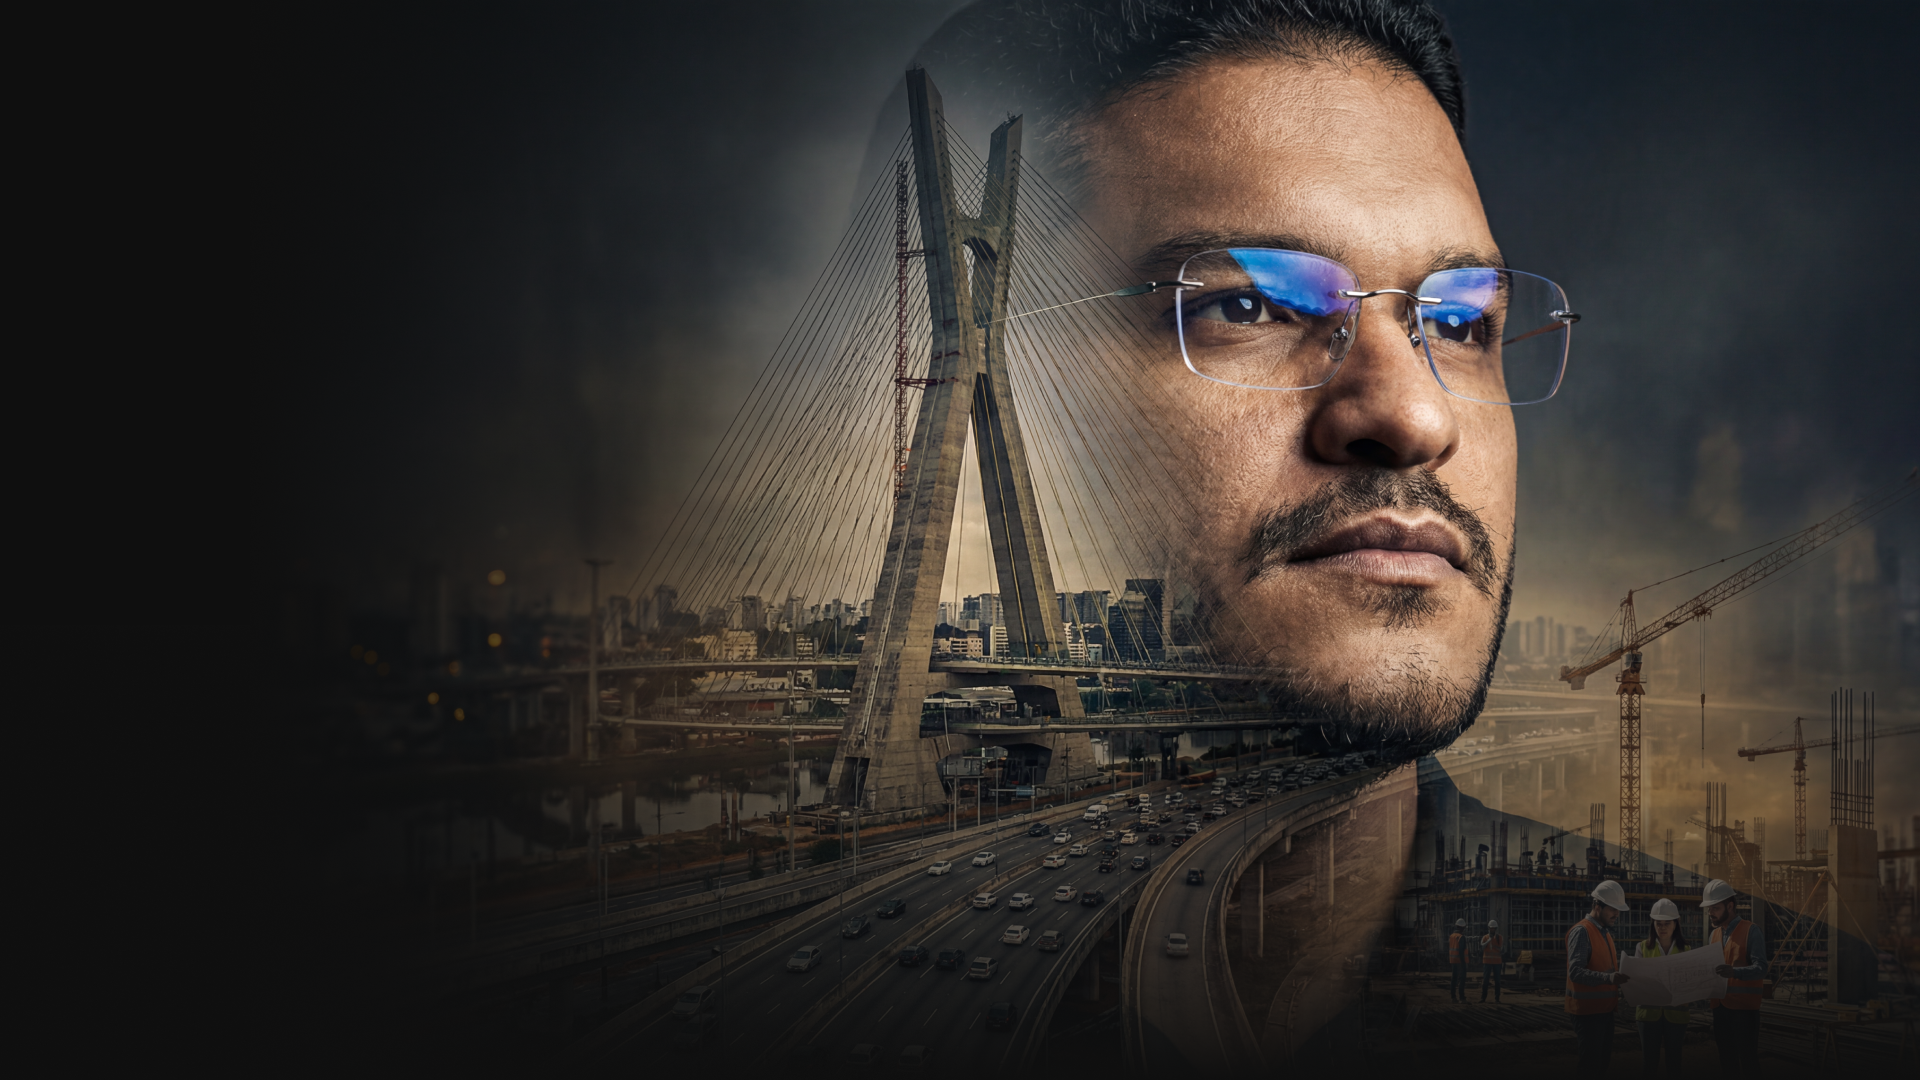
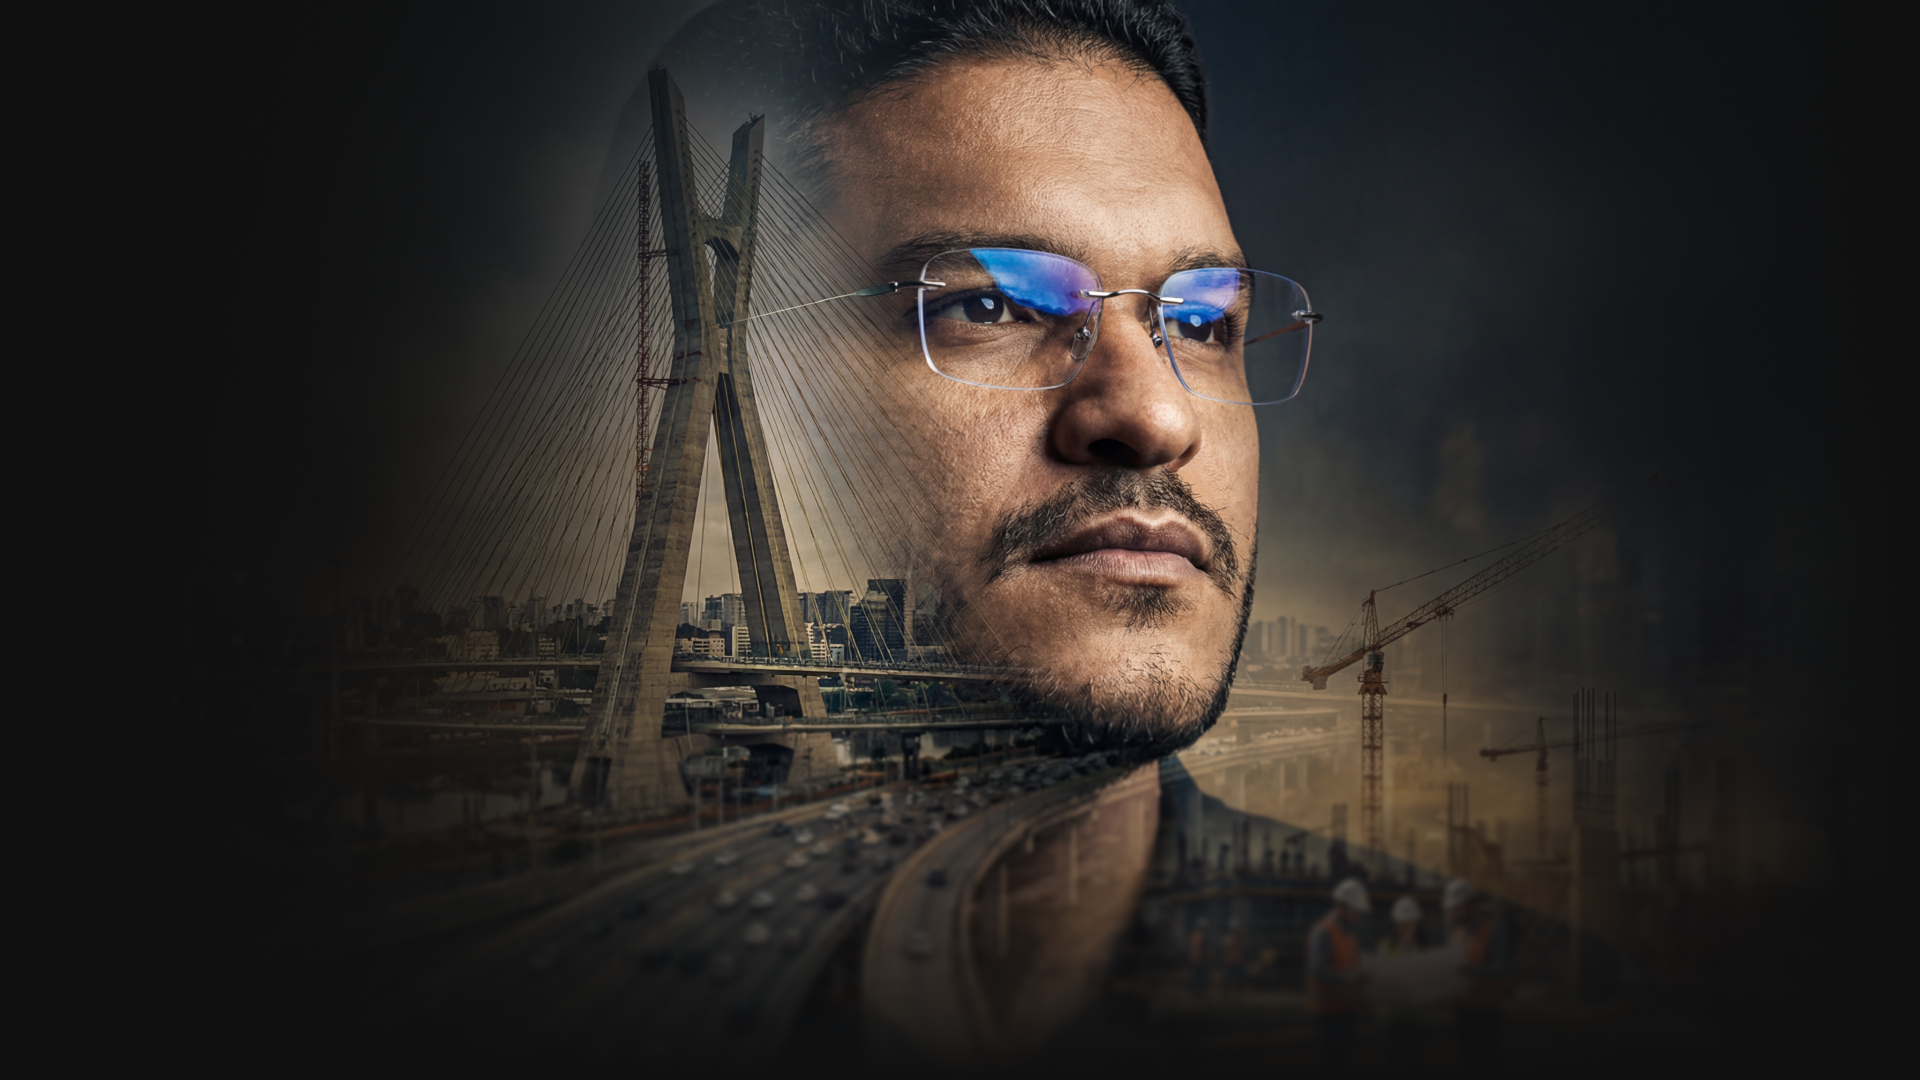
Dobra criador: layout esq (título+botão) + dir (texto) sobre nova foto

diff --git a/index.html b/index.html
@@ -255,13 +255,17 @@ ul{margin:0;padding:0;list-style:none}
 .lp-feature__panel .lp-pull{margin-top:36px;padding-top:32px}
 
 /* ===== ORIGEM (centralizado + foto do fundador no fundo) ===== */
-.lp-origem{position:relative;overflow:hidden;display:flex;align-items:center;min-height:84vh}
+.lp-origem{position:relative;overflow:hidden;display:flex;align-items:center;min-height:90vh}
 .lp-origem__bg{position:absolute;inset:0;z-index:0;background:var(--neutral-950) center/cover no-repeat}
-.lp-origem__content{position:relative;z-index:2;max-width:540px;display:flex;flex-direction:column;gap:22px;text-shadow:0 1px 18px rgba(0,0,0,.55)}
-.lp-origem__content .lp-h2{margin:0;max-width:16ch}
-.lp-origem__content .lp-narrative{margin:0}
-.lp-origem__content .lp-narrative p{font-size:1.25rem;line-height:1.55} /* 20px */
-.lp-origem__content .lp-narrative p+p{margin-top:18px}
+.lp-origem__split{position:relative;z-index:2;display:grid;gap:40px;width:100%;text-shadow:0 1px 16px rgba(0,0,0,.6)}
+@media(min-width:1024px){.lp-origem__split{grid-template-columns:1fr 1fr;gap:80px;align-items:center}}
+.lp-origem__left{display:flex;flex-direction:column;gap:24px;max-width:30ch}
+.lp-origem__left .lp-h2{margin:0;max-width:15ch}
+.lp-origem__right{max-width:38ch}
+@media(min-width:1024px){.lp-origem__right{justify-self:end}}
+.lp-origem__right .lp-narrative{margin:0}
+.lp-origem__right .lp-narrative p{font-size:1.0625rem;line-height:1.55}
+.lp-origem__right .lp-narrative p+p{margin-top:16px}
 
 /* ===== QUOTE ===== */
 .lp-quote{display:grid;gap:28px}
@@ -594,12 +598,19 @@ ul{margin:0;padding:0;list-style:none}
 <section class="lp-section lp-dark lp-origem" id="origem">
   <div class="lp-origem__bg" style="background-image:url('assets/fundador.png')" aria-hidden="true"></div>
 
-  <div class="lp-container">
-    <div class="lp-origem__content reveal">
+  <div class="lp-container lp-origem__split">
+    <div class="lp-origem__left reveal">
       <span class="lp-label">A origem da HT.<span class="lp-label__sub">Nasceu dentro de uma construtora, não em uma sala de reunião.</span></span>
       <h2 class="lp-h2">Uma metodologia criada por quem viveu o problema <span class="lp-accent">de dentro.</span></h2>
+      <a href="#cta" class="ht-btn ht-btn--primary lp-cta" style="align-self:flex-start">
+        <span class="lp-cta__label">Quero meu Diagnóstico</span>
+        <span class="lp-cta__icon" aria-hidden="true"><svg viewBox="0 0 20 20"><path d="M2 9h12.2l-4.6-4.6L11 3l7 7-7 7-1.4-1.4L14.2 11H2z"/></svg></span>
+      </a>
+    </div>
+    <div class="lp-origem__right reveal" data-delay="1">
       <div class="lp-narrative">
-        <p>Por mais de 13 anos, nosso fundador viveu por dentro a rotina de uma empresa de obra pesada, não como consultor ou auditor, mas como <span class="hl">parte da operação.</span> Começou organizando processos e foi assumindo cada vez mais responsabilidades, até se tornar o braço direito do dono. Acompanhou o crescimento: novos contratos, equipes, máquinas. Mas também viveu o outro lado: desorganização, perda de visibilidade, crise e reconstrução.</p>
+        <p>Por mais de 13 anos, nosso fundador viveu por dentro a rotina de uma empresa de obra pesada, não como consultor ou auditor, mas como parte da operação. Começou organizando processos e foi assumindo cada vez mais responsabilidades, até se tornar o braço direito do dono.</p>
+        <p>Acompanhou o crescimento: novos contratos, equipes, máquinas. Mas também viveu o outro lado: desorganização, perda de visibilidade, crise e reconstrução.</p>
         <p class="lead-strong">O problema de uma construtora raramente está nas pessoas. Está na forma como ela enxerga, ou deixa de enxergar, a própria operação.</p>
       </div>
     </div>